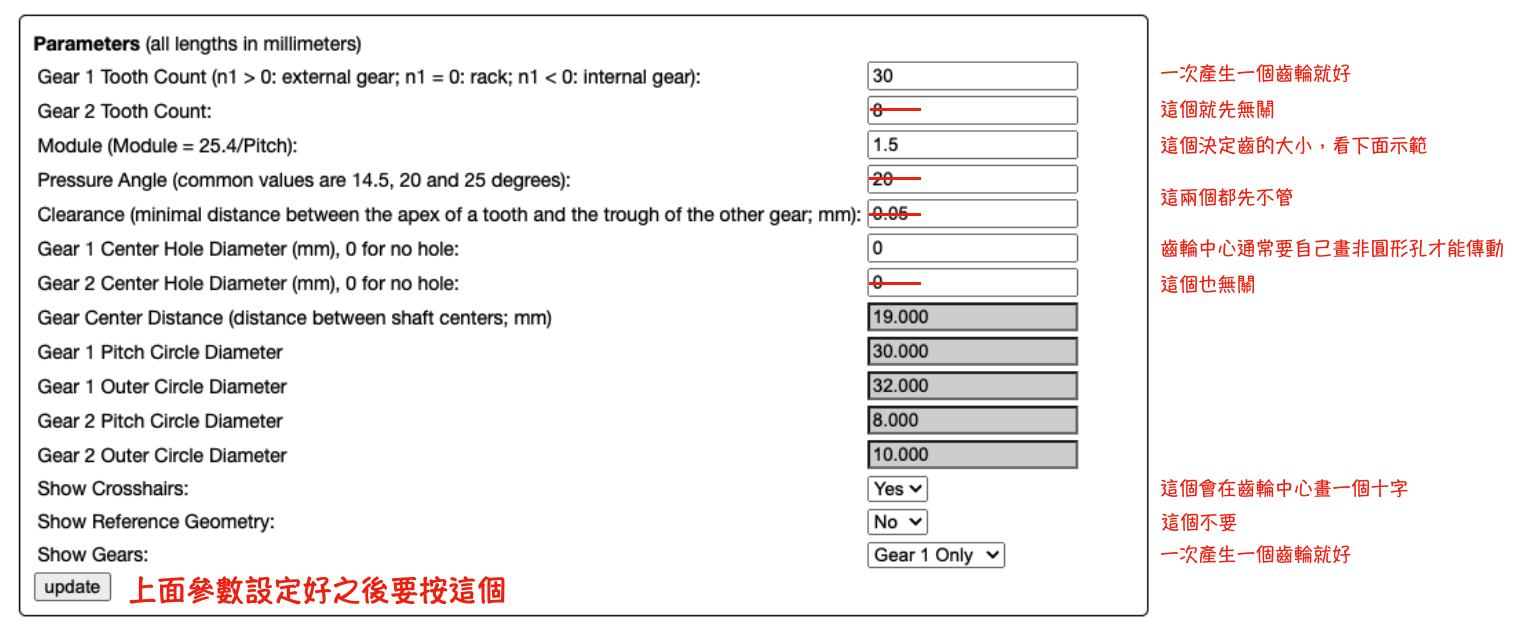
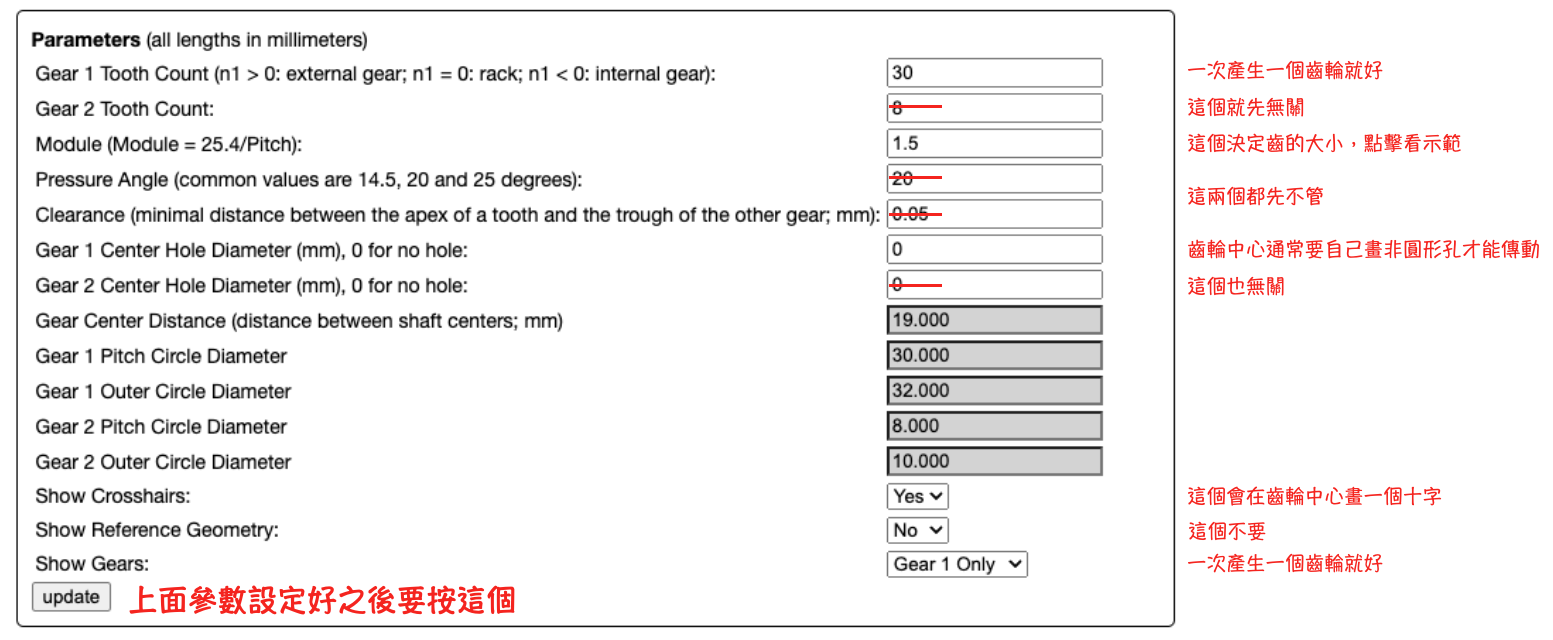
params

diff --git a/zl111/gear.md b/zl111/gear.md
@@ -6,7 +6,7 @@
 
 [點擊此到模板產生網站](https://evolventdesign.com/pages/spur-gear-generator)
 
-<img src="http://nandemoi.github.io/zl111/gear/params.png" alt="params" height="400"/>
+[<img src="http://nandemoi.github.io/zl111/gear/params.png" alt="params" height="400"/>](#module-參數設定示範)
 
 **參數設定好、update 後捲到頁面下端**
 
@@ -31,3 +31,5 @@
 <img src="http://nandemoi.github.io/zl111/gear/import.png" alt="import" height="500"/>
 
 選取你剛剛從 Inkscape 儲存的 .dxf 檔
+
+## Module 參數設定示範
